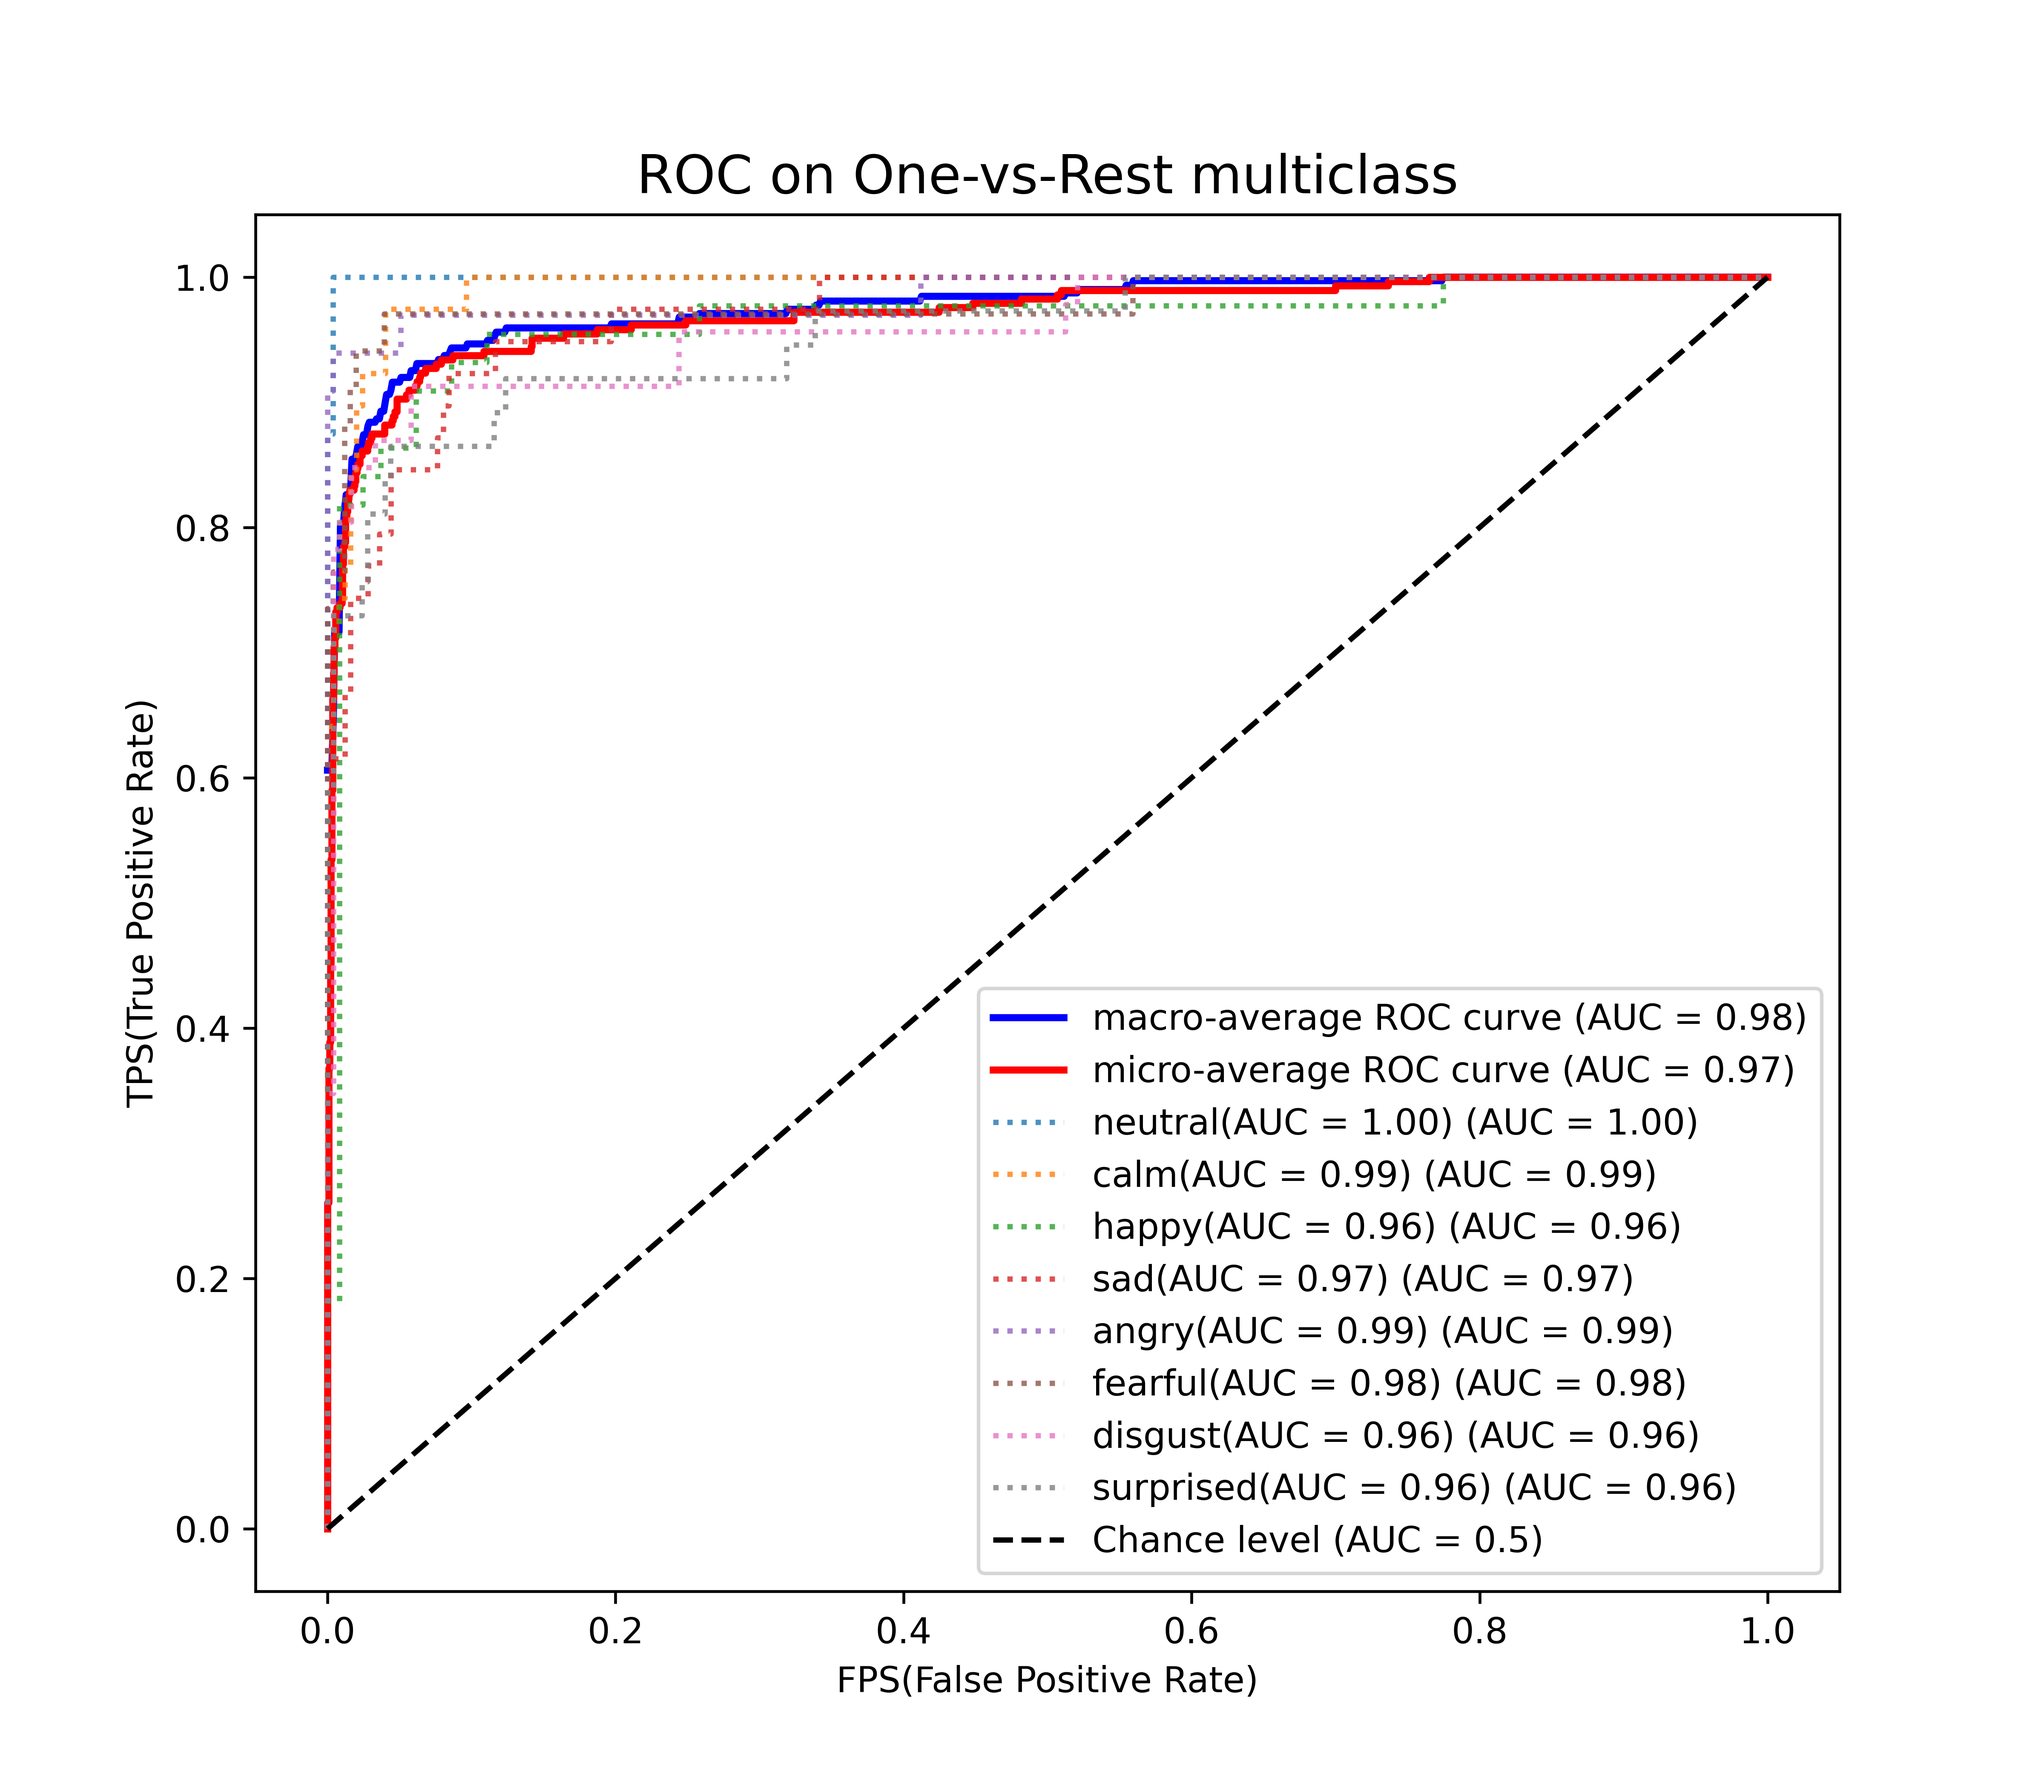
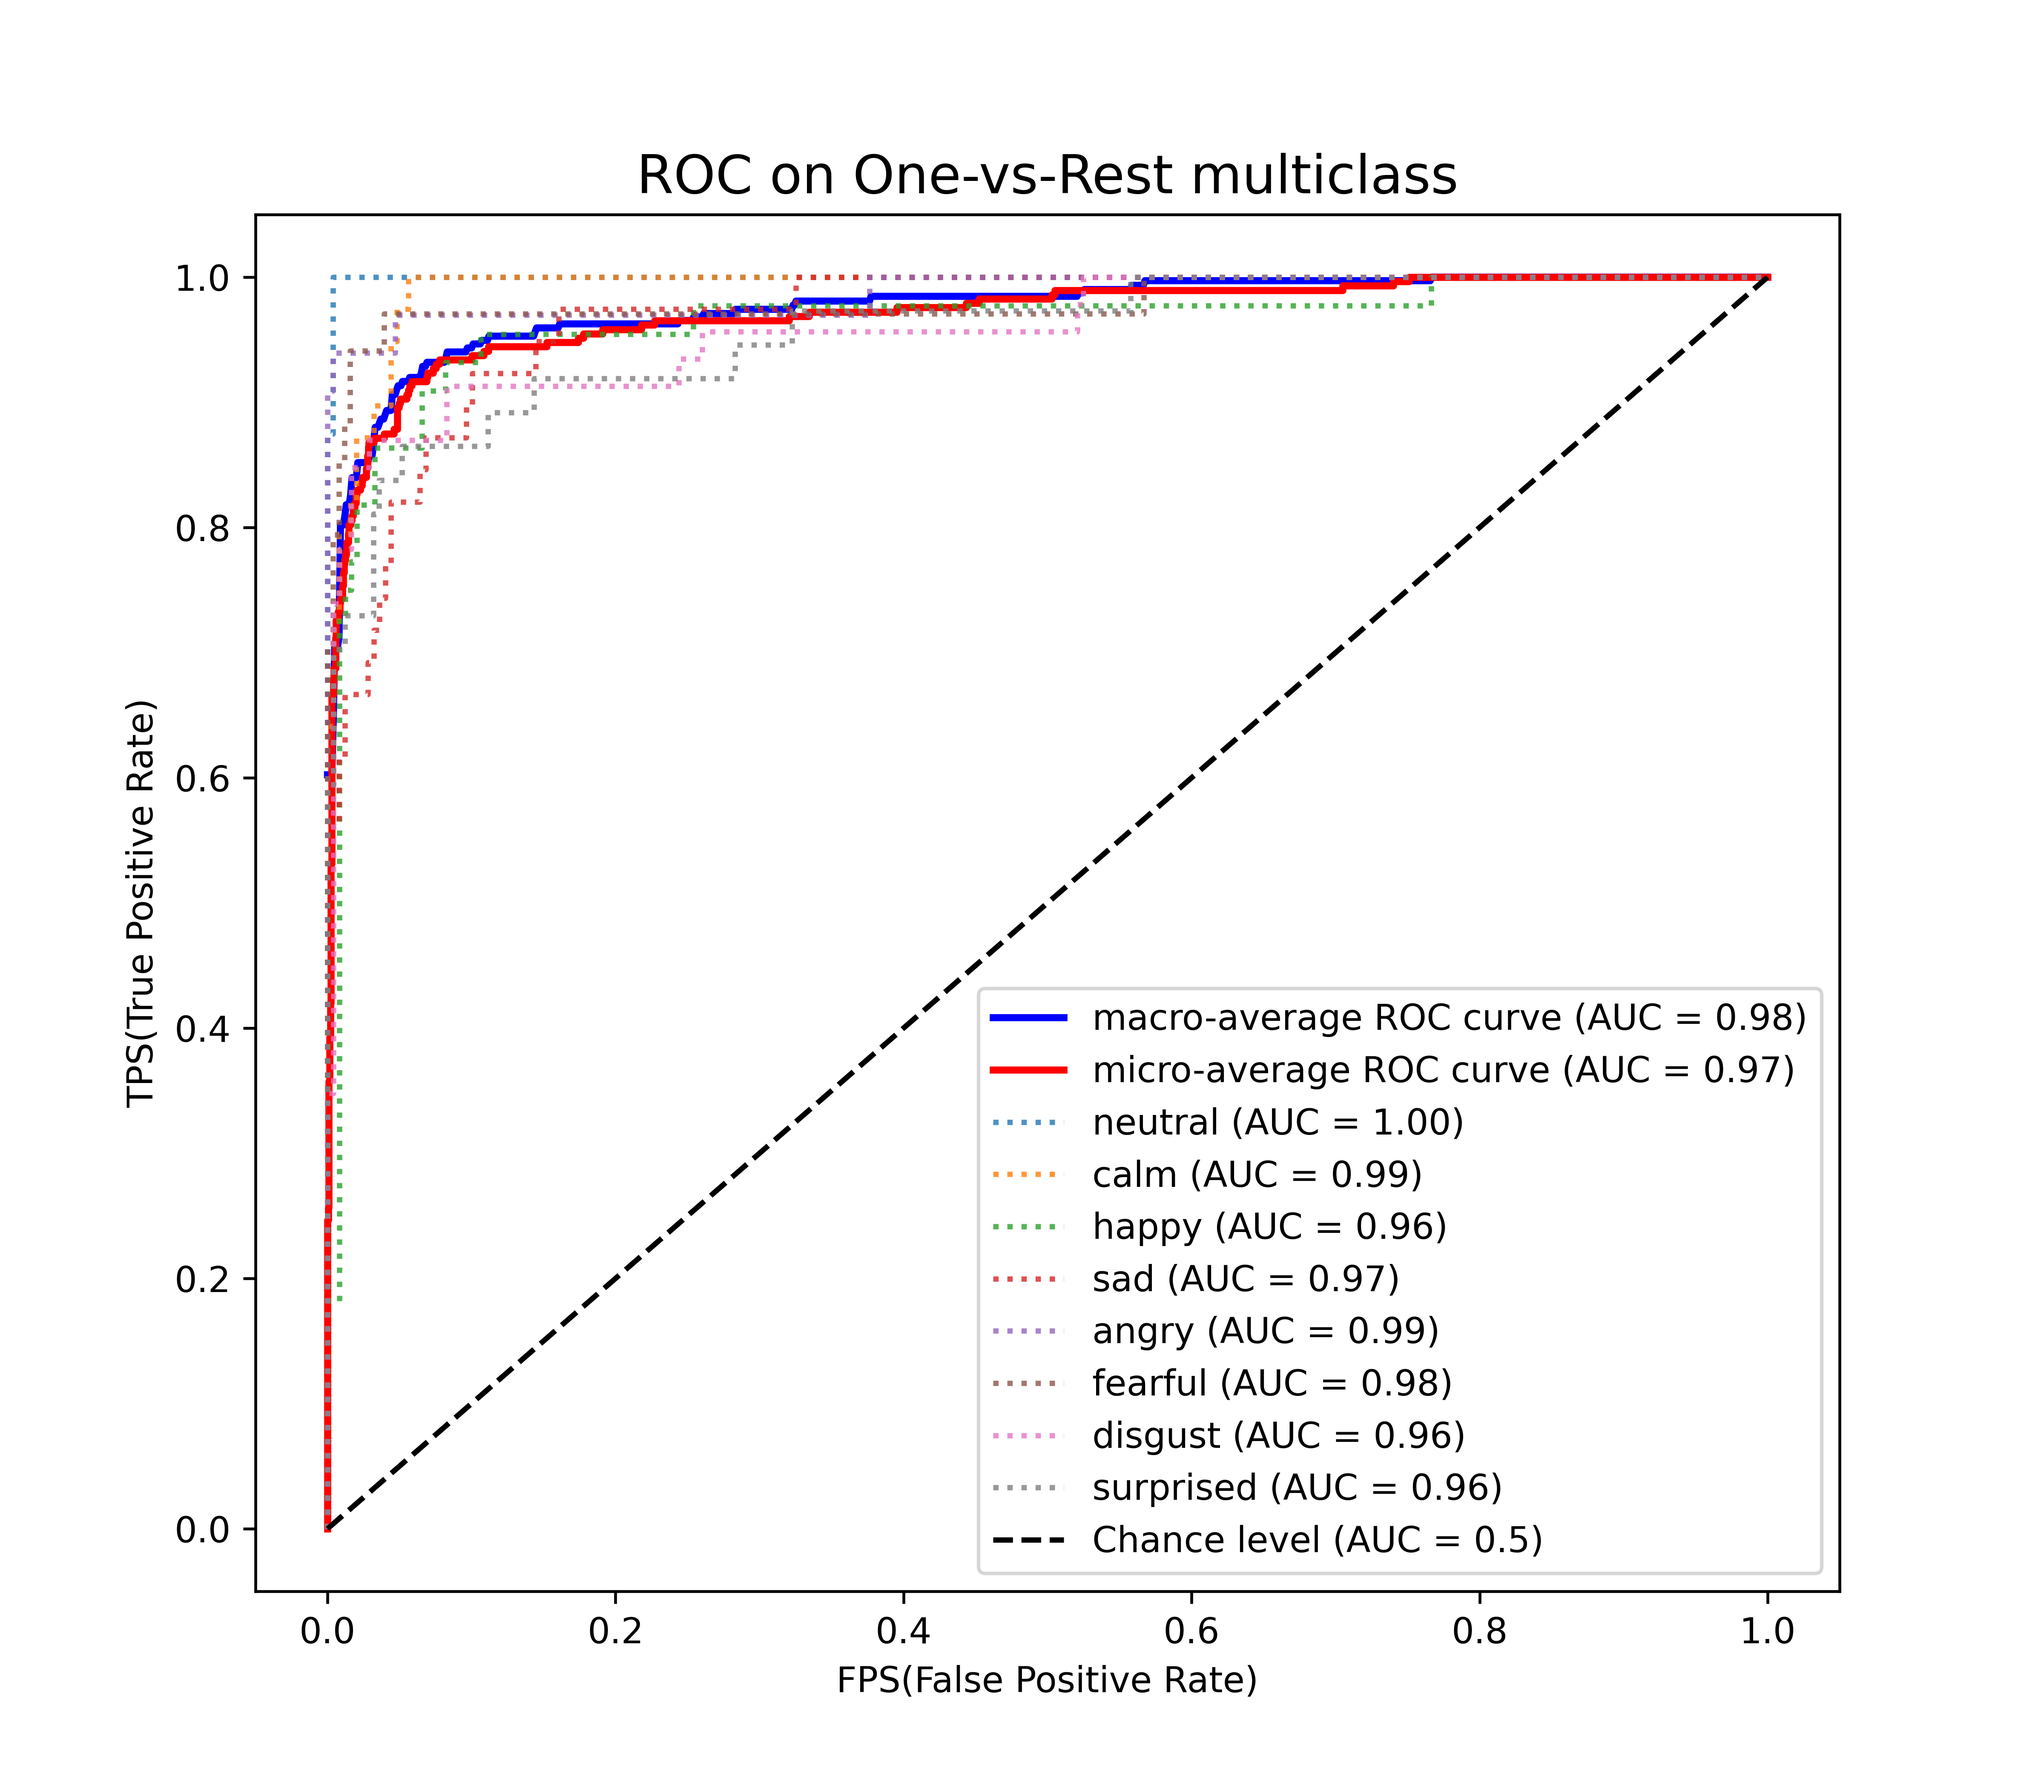
📃 docs(assets): 修复图片bugs

Changed region(s): [[0.5625, 0.6238, 0.8438, 0.8421], [0.1562, 0.156, 0.3438, 0.3743], [0.375, 0.156, 0.5625, 0.1871]]

diff --git a/utils/plot.py b/utils/plot.py
@@ -339,7 +339,7 @@ def plot_macro_roc(labels, probs: np.ndarray):
         mt.RocCurveDisplay.from_predictions(
             one_hot_labels[:, class_id],
             probs[:, class_id],
-            name=f"{LABELS[class_id]}(AUC = {roc_auc[class_id]:.2f})",
+            name=f"{LABELS[class_id]}",
             lw=1.5,
             linestyle=":",
             alpha=0.8,
